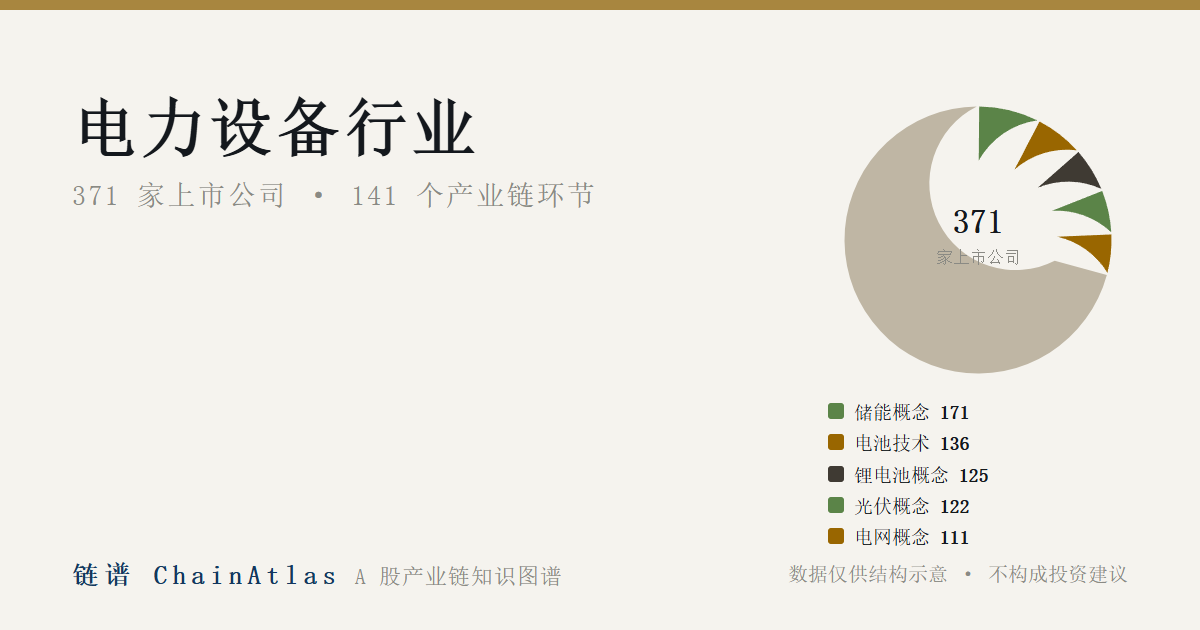
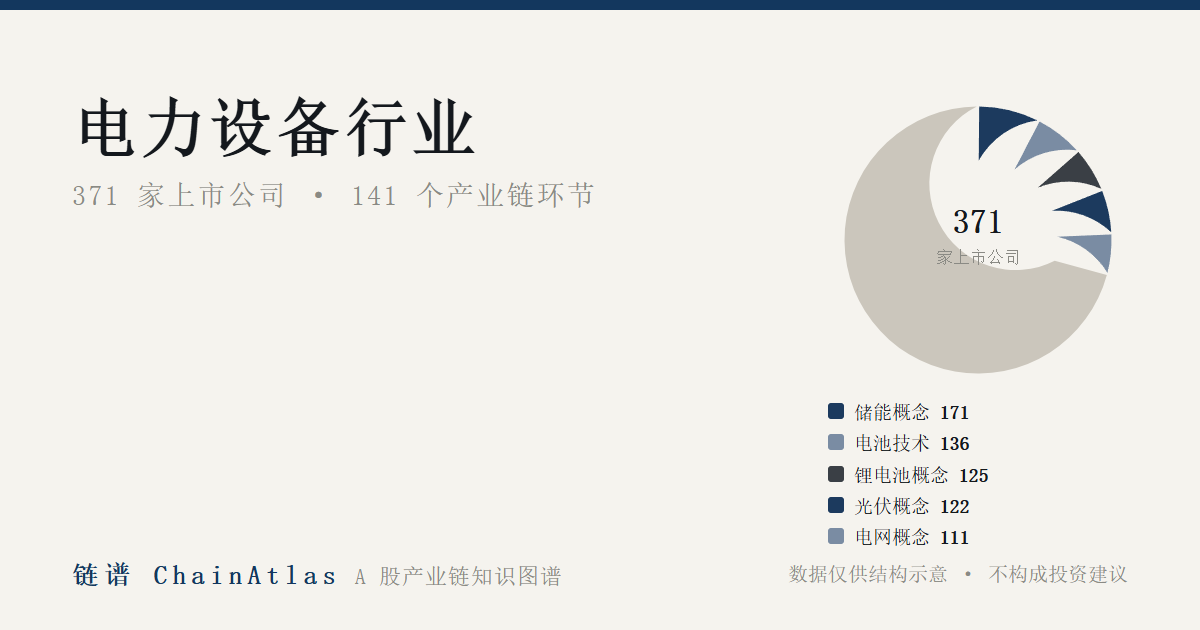
配色改版：纸墨藏青，彻底移除橄榄绿与金色通道
按 docs/handoff-color-redesign.md 执行：
- 默认主色松绿→藏青 #13375E（--gold* 通道映射为藏青/中性灰历史别名，
  全表 var() 引用自动生效）；松绿降级为设置可选项 [data-accent=forest]
- 圆饼数据色改藏青明度阶 #1C3A5E/#7A8CA3 + 炭灰锚 #3A3F45
- 语义色逐字节未动：涨红跌绿、上下游藏青蓝/古铜
- 静态页/OG 分享图/设计文档同步；cssVar 兜底值与 reserved 配色检查更新
- 验证：7 路由截图无橄榄绿/土黄残留；21 项端到端全过；--primary/--gold
  实算均为 #13375E

diff --git a/pages/i/纺织服饰.html b/pages/i/纺织服饰.html
@@ -30,7 +30,7 @@
 <table><tr><th>环节</th><th class='num'>公司数</th></tr><tr><td>黄金概念</td><td class='num'>13</td></tr><tr><td>医疗器械概念</td><td class='num'>6</td></tr><tr><td>电池技术</td><td class='num'>5</td></tr><tr><td>化妆品概念</td><td class='num'>5</td></tr><tr><td>机器人概念</td><td class='num'>4</td></tr><tr><td>光伏概念</td><td class='num'>4</td></tr><tr><td>锂电池概念</td><td class='num'>4</td></tr><tr><td>军工</td><td class='num'>4</td></tr><tr><td>人形机器人</td><td class='num'>4</td></tr><tr><td>商业航天</td><td class='num'>3</td></tr><tr><td>医美概念</td><td class='num'>3</td></tr><tr><td>国产软件</td><td class='num'>2</td></tr><tr><td>绿色电力</td><td class='num'>2</td></tr><tr><td>军民融合</td><td class='num'>2</td></tr><tr><td>农业种植</td><td class='num'>2</td></tr><tr><td class='note'>…… 还有 24 个环节</td><td></td></tr></table>
 <h2>龙头公司<span class="sub">按市值排序 · 点击进公司页</span></h2>
 <table><tr><th>公司</th><th class='num'>最新价</th><th class='num'>涨跌幅</th><th class='num'>总市值</th></tr>
-<tr><td><a href='../c/600612.html'>老凤祥</a><span class='tk' style='color:var(--faint);font-size:13px'> 600612</span></td><td class='num'>31.74</td><td class='num rise'>+0.44%</td><td class='num'>166 亿</td></tr><tr><td><a href='../c/600916.html'>中国黄金</a><span class='tk' style='color:var(--faint);font-size:13px'> 600916</span></td><td class='num'>7.46</td><td class='num fall'>-0.13%</td><td class='num'>125 亿</td></tr><tr><td><a href='../c/002867.html'>周大生</a><span class='tk' style='color:var(--faint);font-size:13px'> 002867</span></td><td class='num'>10.33</td><td class='num flat'>0.00%</td><td class='num'>112 亿</td></tr><tr><td><a href='../c/605599.html'>菜百股份</a><span class='tk' style='color:var(--faint);font-size:13px'> 605599</span></td><td class='num'>14.11</td><td class='num fall'>-0.07%</td><td class='num'>110 亿</td></tr><tr><td><a href='../c/300005.html'>探路者</a><span class='tk' style='color:var(--faint);font-size:13px'> 300005</span></td><td class='num'>11.23</td><td class='num fall'>-1.32%</td><td class='num'>99 亿</td></tr><tr><td><a href='../c/002083.html'>孚日股份</a><span class='tk' style='color:var(--faint);font-size:13px'> 002083</span></td><td class='num'>9.86</td><td class='num rise'>+0.92%</td><td class='num'>93 亿</td></tr><tr><td><a href='../c/603608.html'>天创时尚</a><span class='tk' style='color:var(--faint);font-size:13px'> 603608</span></td><td class='num'>21.96</td><td class='num fall'>-0.77%</td><td class='num'>93 亿</td></tr><tr><td><a href='../c/301177.html'>迪阿股份</a><span class='tk' style='color:var(--faint);font-size:13px'> 301177</span></td><td class='num'>23.30</td><td class='num fall'>-0.21%</td><td class='num'>93 亿</td></tr><tr><td><a href='../c/601718.html'>ST际华</a><span class='tk' style='color:var(--faint);font-size:13px'> 601718</span></td><td class='num'>1.98</td><td class='num fall'>-0.50%</td><td class='num'>86 亿</td></tr><tr><td><a href='../c/000026.html'>飞亚达</a><span class='tk' style='color:var(--faint);font-size:13px'> 000026</span></td><td class='num'>20.21</td><td class='num rise'>+2.85%</td><td class='num'>82 亿</td></tr><tr><td><a href='../c/603196.html'>璞源材料</a><span class='tk' style='color:var(--faint);font-size:13px'> 603196</span></td><td class='num'>19.26</td><td class='num rise'>+0.63%</td><td class='num'>81 亿</td></tr><tr><td><a href='../c/002345.html'>潮宏基</a><span class='tk' style='color:var(--faint);font-size:13px'> 002345</span></td><td class='num'>8.98</td><td class='num flat'>0.00%</td><td class='num'>80 亿</td></tr></table>
+<tr><td><a href='../c/600612.html'>老凤祥</a><span class='tk' style='color:var(--faint);font-size:13px'> 600612</span></td><td class='num'>31.74</td><td class='num rise'>+0.44%</td><td class='num'>166 亿</td></tr><tr><td><a href='../c/600916.html'>中国黄金</a><span class='tk' style='color:var(--faint);font-size:13px'> 600916</span></td><td class='num'>7.46</td><td class='num fall'>-0.13%</td><td class='num'>125 亿</td></tr><tr><td><a href='../c/002867.html'>周大生</a><span class='tk' style='color:var(--faint);font-size:13px'> 002867</span></td><td class='num'>10.33</td><td class='num flat'>0.00%</td><td class='num'>112 亿</td></tr><tr><td><a href='../c/605599.html'>菜百股份</a><span class='tk' style='color:var(--faint);font-size:13px'> 605599</span></td><td class='num'>14.11</td><td class='num fall'>-0.07%</td><td class='num'>110 亿</td></tr><tr><td><a href='../c/300005.html'>探路者</a><span class='tk' style='color:var(--faint);font-size:13px'> 300005</span></td><td class='num'>11.23</td><td class='num fall'>-1.32%</td><td class='num'>99 亿</td></tr><tr><td><a href='../c/603608.html'>天创时尚</a><span class='tk' style='color:var(--faint);font-size:13px'> 603608</span></td><td class='num'>21.96</td><td class='num fall'>-0.77%</td><td class='num'>93 亿</td></tr><tr><td><a href='../c/002083.html'>孚日股份</a><span class='tk' style='color:var(--faint);font-size:13px'> 002083</span></td><td class='num'>9.86</td><td class='num rise'>+0.92%</td><td class='num'>93 亿</td></tr><tr><td><a href='../c/301177.html'>迪阿股份</a><span class='tk' style='color:var(--faint);font-size:13px'> 301177</span></td><td class='num'>23.30</td><td class='num fall'>-0.21%</td><td class='num'>93 亿</td></tr><tr><td><a href='../c/601718.html'>ST际华</a><span class='tk' style='color:var(--faint);font-size:13px'> 601718</span></td><td class='num'>1.98</td><td class='num fall'>-0.50%</td><td class='num'>86 亿</td></tr><tr><td><a href='../c/000026.html'>飞亚达</a><span class='tk' style='color:var(--faint);font-size:13px'> 000026</span></td><td class='num'>20.21</td><td class='num rise'>+2.85%</td><td class='num'>82 亿</td></tr><tr><td><a href='../c/603196.html'>璞源材料</a><span class='tk' style='color:var(--faint);font-size:13px'> 603196</span></td><td class='num'>19.26</td><td class='num rise'>+0.63%</td><td class='num'>81 亿</td></tr><tr><td><a href='../c/002345.html'>潮宏基</a><span class='tk' style='color:var(--faint);font-size:13px'> 002345</span></td><td class='num'>8.98</td><td class='num flat'>0.00%</td><td class='num'>80 亿</td></tr></table>
 <div class="warn">行业与环节归属为真实公开归类；公司页的上下游连线为模型推断的模拟数据，未经核实。不构成投资建议。</div>
 <span class="open-app"><a href="https://zhangyh066.github.io/china-chain/#/i/%E7%BA%BA%E7%BB%87%E6%9C%8D%E9%A5%B0">在交互图谱中打开 →</a></span>
 

diff --git a/app.js b/app.js
@@ -91,7 +91,7 @@ const SETTINGS_DEFAULTS = {
   layout: "group",      // group | flat
   width: "narrow",      // narrow | wide
   animations: true,
-  accent: "forest",     // forest（默认，配米白纸底）| navy | graphite
+  accent: "navy",       // navy（默认）| forest | graphite
 };
 let settings = { ...SETTINGS_DEFAULTS };
 
@@ -770,7 +770,7 @@ function drawMarketRing(cv, hover = -1, dragTo = -1) {
   const INK2 = cssVar("--text", "#14181D");
   const RISEC = cssVar("--rise", "#AE2A1E");
   const FALLC = cssVar("--fall", "#0E6B4A");
-  const GOLD = cssVar("--gold", "#A8863F");
+  const GOLD = cssVar("--gold", "#13375E");
   const MUTED = cssVar("--border-strong", "#C9C3B5");
 
   // 环
@@ -1961,20 +1961,12 @@ function industryParts(ind, g) {
   return { ind, total: members.length, ranked, byTicker };
 }
 
-/* 环节切片的色阶：藏青由深到浅。
-   不用彩虹色 —— 涨跌已经占了红绿、上下游占了藏青/古铜，再上彩虹就会"一个颜色两件事"。
-   这里只用一条明度阶 + 灰色兜底，色义不与其他层冲突（见 styles.css 开头的取色逻辑）。 */
-// 数据色照 FT（金融时报）的路子：**少色相、多档位**。
-// Datawrapper 拆过各家的配色规范，给这类做法起了个名字叫 "fewer hues, more shades" ——
-// 数据色的"安静版"（2026-09-28 审美走查后调整）：大面积扇形会把颜色放大，
-// FT 原版绿 #09823A（色度 56）摊在米白底的大扇形上太响，压暗降饱和到 #5B8448
-// （色度 38，绿相不变）；金与炭不动。所有距离都是算出来的：
-//   相邻 ΔE    绿→金 48.0   金→炭 56.0   炭→绿 43.8      （≥20 就算"一眼能分"）
-//   离「跌」绿 #0E6B4A  21.4 / 64.8 / 38.4               （全部 ≥20，不会看着像"跌"）
-//   离纸底的对比度      3.9:1 / 4.5:1 / 10.2:1
-// 不含蓝、不含红：红绿两个色位留给涨跌，蓝在米白纸底上本来就发脏。
-const PART_CYCLE = ["#5B8448", "#996600", "#3F3A33"];
-const PART_OTHER = "#BFB6A4";
+/* 环节切片：藏青明度阶 + 炭灰锚点，"fewer hues, more shades"；
+   红绿留给涨跌，故此处不含红绿。
+   三个色分别是深藏青、灰蓝、炭灰——同族明度阶 + 一个中性锚，
+   相邻扇区一眼可分，且都远离涨红/跌绿。 */
+const PART_CYCLE = ["#1C3A5E", "#7A8CA3", "#3A3F45"];
+const PART_OTHER = "#CBC6BC";
 const PART_TONES = PART_CYCLE;
 
 /* ---- 全景图谱：24 个小圆饼 ------------------------------------------------
@@ -2498,7 +2490,7 @@ function drawIndustryRing(cv, ind, g, sel = null, hoverSector = -1) {
   const FAINT = cssVar("--text-faint", "#8A8A84");
   const RISE = cssVar("--rise", "#AE2A1E");
   const FALL = cssVar("--fall", "#0E6B4A");
-  const GOLD = cssVar("--gold", "#A8863F");
+  const GOLD = cssVar("--gold", "#13375E");
   const LINE = cssVar("--border-strong", "#C9C3B5");
   const q = indexData?.quotes || {};
 

diff --git a/styles.css b/styles.css
@@ -27,17 +27,17 @@
   --shadow-lift: 0 2px 8px rgba(20, 24, 29, 0.07);
 
   /* ---- 强调色（默认藏青，可被 [data-accent] 覆盖） ---- */
-  /* 默认主色改成松绿：米白纸底配蓝会发脏，配墨绿才是"纸与墨"的味道。
-     藏青降为可选项（[data-accent="navy"]）。 */
-  --primary: #1E4A3C;
-  --primary-dark: #143528;
-  --primary-soft: #E0EAE5;
+  /* 「纸墨藏青」：暖纸 + 墨 + 唯一的藏青强调色。
+     金色通道已废弃，--gold* 是藏青/中性灰的历史别名，仅为兼容旧引用保留。 */
+  --primary: #13375E;
+  --primary-dark: #0B2440;
+  --primary-soft: #E2E9F1;
 
-  /* ---- 金：固定的点睛色，不随主题切换，也不承担数据语义 ---- */
-  --gold: #A8863F;
-  --gold-dark: #836729;
-  --gold-soft: #F2EBD9;
-  --gold-line: #E0D3B4;
+  /* ---- 金 → 藏青/中性灰（历史别名，见上注释；新代码请用 --primary* 或中性色） ---- */
+  --gold: #13375E;
+  --gold-dark: #0B2440;
+  --gold-soft: #E8ECF2;
+  --gold-line: #D9D5CB;
 
   /* ---- 供应链方向（固定，与强调色无关） ---- */
   --up1: #1D4E7C;      /* 上游一级：藏青蓝 */
@@ -72,12 +72,17 @@
   --bg-soft: var(--surface-soft);
 }
 
-/* 强调色切换（设置 → 主色）。默认是松绿（见 :root），下面两套按需覆盖。
+/* 强调色切换（设置 → 主色）。默认是藏青（见 :root），下面两套按需覆盖。
    三套都刻意避开红/绿——那两个色位已经归涨跌所有，不能抢。 */
 :root[data-accent="navy"] {
   --primary: #13375E;
   --primary-dark: #0B2440;
   --primary-soft: #E2E9F1;
+}
+:root[data-accent="forest"] {
+  --primary: #1E4A3C;
+  --primary-dark: #143528;
+  --primary-soft: #E0EAE5;
 }
 :root[data-accent="graphite"] {
   --primary: #2A2E35;
@@ -486,7 +491,7 @@ button { font-family: inherit; font-size: inherit; }
 .intro-seg-title .cf-meta { margin-left: 10px; }
 .intro-segs th, .intro-segs td {
   text-align: left; padding: 5px 14px 5px 0;
-  border-bottom: 1px solid var(--gold-line, #E0D3B4);
+  border-bottom: 1px solid var(--gold-line, #D9D5CB);
 }
 .intro-segs th { font-size: 12px; color: var(--text-faint); font-weight: 400; }
 .intro-segs td.num, .intro-segs th.num { text-align: right; padding-right: 0; }

diff --git a/pages/style.css b/pages/style.css
@@ -1,6 +1,6 @@
 
-  :root { --paper:#F5F3EE; --ink:#14181D; --faint:#8A8A84; --gold:#A8863F;
-          --gold-line:#E0D3B4; --navy:#13375E; --rise:#AE2A1E; --fall:#0E6B4A; }
+  :root { --paper:#F5F3EE; --ink:#14181D; --faint:#8A8A84; --gold:#13375E;
+          --gold-line:#D9D3C4; --navy:#13375E; --rise:#AE2A1E; --fall:#0E6B4A; }
   * { box-sizing: border-box; }
   body { margin:0; background:var(--paper); color:var(--ink);
          font:16px/1.75 "Songti SC","Noto Serif CJK SC","SimSun",serif; }

diff --git a/pipeline/prerender.py b/pipeline/prerender.py
@@ -71,8 +71,8 @@ def fmt_price(v):
 
 # ---------------------------------------------------------------- CSS（文字版页面共用）
 CSS = """
-  :root { --paper:#F5F3EE; --ink:#14181D; --faint:#8A8A84; --gold:#A8863F;
-          --gold-line:#E0D3B4; --navy:#13375E; --rise:#AE2A1E; --fall:#0E6B4A; }
+  :root { --paper:#F5F3EE; --ink:#14181D; --faint:#8A8A84; --gold:#13375E;
+          --gold-line:#D9D3C4; --navy:#13375E; --rise:#AE2A1E; --fall:#0E6B4A; }
   * { box-sizing: border-box; }
   body { margin:0; background:var(--paper); color:var(--ink);
          font:16px/1.75 "Songti SC","Noto Serif CJK SC","SimSun",serif; }

diff --git a/pipeline/make_og.py b/pipeline/make_og.py
@@ -20,9 +20,9 @@ ROOT = os.path.dirname(HERE)
 DATA = os.path.join(ROOT, "data")
 OUT = os.path.join(ROOT, "assets", "og")
 
-PART_CYCLE = ["#5B8448", "#996600", "#3F3A33"]
-PART_OTHER = "#BFB6A4"
-PAPER, INK, FAINT, GOLD, NAVY = "#F5F3EE", "#14181D", "#8A8A84", "#A8863F", "#13375E"
+PART_CYCLE = ["#1C3A5E", "#7A8CA3", "#3A3F45"]
+PART_OTHER = "#CBC6BC"
+PAPER, INK, FAINT, GOLD, NAVY = "#F5F3EE", "#14181D", "#8A8A84", "#13375E", "#13375E"
 
 W, H = 1200, 630
 

diff --git a/pipeline/palette_reserved_check.py b/pipeline/palette_reserved_check.py
@@ -18,7 +18,7 @@ from palette_check import (check, delta_e, hex2rgb, rgb2lab,
 RESERVED = [
     ("上游藏青", "#1D4E7C"), ("上游二级", "#3E6E9C"),
     ("下游古铜", "#9C5A2C"), ("下游二级", "#7C4520"),
-    ("主色藏青", "#13375E"), ("金", "#A8863F"),
+    ("主色藏青", "#13375E"),
 ]
 CUR = ["#733f42", "#25545d", "#a09a54", "#464a79", "#4c8261",
        "#a46b94", "#9d643a", "#0083b1", "#b59089", "#544f2b", "#8a91d5"]

diff --git a/pipeline/bronze_check.py b/pipeline/bronze_check.py
@@ -64,7 +64,7 @@ DATA = {
     "下游古铜(加深) #8A4A1E": "#8A4A1E",
     "涨红 #AE2A1E": "#AE2A1E",
     "跌绿 #0E6B4A": "#0E6B4A",
-    "金 #A8863F": "#A8863F",
+    "主色藏青 #13375E": "#13375E",
     "金(加深) #8A6A28": "#8A6A28",
 }
 

diff --git a/docs/handoff-color-redesign.md b/docs/handoff-color-redesign.md
@@ -1,0 +1,145 @@
+# 配色改版交接文件：从「橄榄绿 + 土金」到「纸墨藏青」
+
+> 写给执行改动的模型/开发者。本文档包含：诊断、设计决策、**逐行精确的替换清单**、验证步骤。
+> 按清单改即可，不需要再做设计决策。所有行号基于当前版本，改之前请先 Read 对应文件核对上下文。
+
+---
+
+## 1. 背景与诊断
+
+这是一个 A 股产业链图谱站点（单页应用 `index.html` + `app.js` + `styles.css`，另有静态 SEO 页 `pages/`）。
+用户反馈：「一会儿橄榄绿，一会儿屎黄色，不符合审美」。
+
+经逐页截图走查，问题颜色的确切来源是：
+
+| 用户看到的 | 代码里的值 | 位置 |
+|---|---|---|
+| 橄榄绿（按钮、选中态、链接、圆饼扇区） | `#1E4A3C` 松绿（默认主色）、`#5B8448` 数据绿 | `styles.css:32`、`app.js:1976` |
+| 屎黄色（圆饼扇区、顶部金线、警示框、星标、徽章） | `#996600` 数据金、`#A8863F` 金、`#F2EBD9` 金底 | `app.js:1976`、`styles.css:37-40` |
+| 深棕 | `#3F3A33` | `app.js:1976` |
+
+**保留不动**（这些是语义色，不是装饰色，动了会破坏信息表达）：
+
+- 涨红 `#AE2A1E` / 跌绿 `#0E6B4A`（A 股惯例，`--rise` / `--fall`）
+- 上游藏青蓝 `#1D4E7C/#3E6E9C`、下游古铜 `#9C5A2C/#7C4520`（价值链地图的方向语义，`--up1/--up2/--dn1/--dn2`）
+- 米白纸底 `#F5F3EE`、墨色 `#14181D`（这套"纸与墨"基底是好的，是站点气质的来源）
+
+## 2. 设计方向（已定，勿再发散）
+
+**「纸墨藏青」：暖纸 + 墨 + 唯一的藏青强调色，彻底删除金色通道和橄榄绿。**
+
+原则（来自本站 `styles.css` 开头已有的设计哲学，本次只是把它贯彻到底）：
+
+- 像一份印刷的研究报告，不像数据可视化库的默认盘；
+- "fewer hues, more shades"——少色相、多档位；
+- 一个颜色只表达一件事：红绿归涨跌、蓝/古铜归上下游、藏青归交互与强调；
+- 点缀不靠第二种彩色，靠留白、细线和字重。
+
+新强调色选择 **藏青 `#13375E`** 的理由：
+
+1. 代码里它已经是现成的备选主题（`styles.css:77-81` 的 `[data-accent="navy"]`），对比度、深浅色阶都配好了；
+2. `manifest.webmanifest:10` 和 `index.html:20` 的 `theme_color` 本来就是 `#13375E`——浏览器地址栏/图标底色早已是藏青，页面主色却一直不是，这次顺手统一；
+3. 藏青在米白纸底上是"机构感"，不是"脏蓝"（值够深、够冷）；
+4. 与语义色不冲突：离涨红/跌绿很远；与上游蓝 `#1D4E7C` 同族但明度差一档（藏青做实心节点、上游蓝只做浅色填充和文字，不混）。
+
+金色通道不新增替代彩色，**映射到藏青色系和中性灰**：金的"点睛"职能由藏青接管，金的"细线"职能由中性暖灰接管。
+
+## 3. 精确替换清单
+
+### 3.1 `styles.css` —— 改 8 个 token 的值（不改任何选择器）
+
+`:root` 块内（当前第 32-40 行），**只改值、不改变量名**，这样全表 20 多处 `var(--gold…)` 引用自动生效：
+
+```
+--primary:       #1E4A3C  →  #13375E
+--primary-dark:  #143528  →  #0B2440
+--primary-soft:  #E0EAE5  →  #E2E9F1
+--gold:          #A8863F  →  #13375E
+--gold-dark:     #836729  →  #0B2440
+--gold-soft:     #F2EBD9  →  #E8ECF2
+--gold-line:     #E0D3B4  →  #D9D5CB
+```
+
+同时更新 `styles.css:29-36` 附近的注释：把「默认主色改成松绿……藏青降为可选项」那段改为「默认主色为藏青；金色通道已废弃，--gold* 是藏青/中性灰的历史别名，仅为兼容旧引用保留」。
+
+`:root[data-accent="forest"]`（当前不存在，需要**新增**，因为旧默认松绿降级为可选项）：
+
+```css
+:root[data-accent="forest"] {
+  --primary: #1E4A3C;
+  --primary-dark: #143528;
+  --primary-soft: #E0EAE5;
+}
+```
+
+放在现有 `:root[data-accent="navy"]`（第 77-81 行）旁边即可。`[data-accent="navy"]` 那组值与新的 `:root` 默认相同，留着无害（也可删，但留着能让"藏青"选项在设置里逻辑简单）。
+
+### 3.2 `app.js` —— 4 处
+
+**① 默认主色（第 94 行）：**
+
+```
+accent: "forest",  →  accent: "navy",
+```
+
+注释同步改为 `// navy（默认）| forest | graphite`。注意 `applyAccent()`（第 108-112 行）的逻辑是"非 navy 才打 `data-accent` 属性"——改完默认值后逻辑自洽：默认藏青 → 无属性 → 命中 `:root` 新藏青；选松绿 → `data-accent="forest"` → 命中 3.1 新增的那组。
+
+**② 圆饼数据色（第 1976-1977 行）** —— 这是"橄榄绿 + 屎黄"圆饼的直接来源：
+
+```
+PART_CYCLE = ["#5B8448", "#996600", "#3F3A33"]  →  ["#1C3A5E", "#7A8CA3", "#3A3F45"]
+PART_OTHER = "#BFB6A4"                           →  "#CBC6BC"
+```
+
+三个新色分别是：深藏青、灰蓝、炭灰——同族明度阶 + 一个中性锚，相邻扇区一眼可分，且都远离涨红/跌绿。第 1964-1975 行那段关于 FT 绿的长注释已过时，简化为：`// 环节切片：藏青明度阶 + 炭灰锚点，"fewer hues, more shades"；红绿留给涨跌，故此处不含红绿。`
+
+**③ 设置面板色板顺序（第 2953-2957 行）：** 把 navy 排第一并作为默认项即可（数组顺序本来就是 navy 在前，无需改动；确认 `dot` 值 `#13375E` 不变）。
+
+**④ 不需要改**：`OWL_PAL`（第 199 行，中性暖灰，保留）、价值链地图上下游色（第 1386-1391 行，语义色，保留）、`--rise/--fall` 的所有引用（第 768-774、2497-2502 行等）。
+
+### 3.3 `pages/style.css` —— 静态 SEO 页同步（第 2-3 行）
+
+```
+--gold: #A8863F        →  #13375E
+--gold-line: #E0D3B4   →  #D9D3C4
+```
+
+（`--navy: #13375E`、`--paper: #F5F3EE`、`--rise/--fall` 不动。改完后该文件里"金色"实际是藏青，变量名照旧不改，避免动下面 50 行引用。）
+
+### 3.4 其他文件
+
+- `manifest.webmanifest`、`index.html` 的 theme-color 已是 `#13375E`，**不用改**。
+- `locales/zh.json`、`locales/en.json` 中 `settings.accent.*` 文案（藏青/松绿/石墨）**不用改**——松绿降级为可选项后名字仍成立。
+- `_bak_*.js`、`_bak*.css` 是历史备份，**不要改**。
+- `pipeline/palette_check.py` 里的行业 11 色与本次无关，**不要改**。
+
+## 4. 老用户的 localStorage 迁移（可选，建议做）
+
+老用户浏览器里可能存着 `accent: "forest"`。两种处理：
+
+- **简单方案（推荐）**：不管。老用户保留松绿主题，新用户默认藏青。设置里可随时切。
+- **彻底方案**：在 `app.js` 读取 settings 后加一行：`if (settings.accent === "forest" && !settings._accentMigrated) { settings.accent = "navy"; settings._accentMigrated = true; saveSettings(); }`。只有产品明确要求"所有人统一新配色"时才做。
+
+## 5. 构建与验证
+
+```bash
+python build_dist.py        # 重新生成 dist/（它会拷贝 styles.css、app.js、pages/）
+python serve.py 8123        # 本地预览（自带 no-store，不会有缓存假象）
+```
+
+浏览器逐一打开以下路由并截图核对（重点看：无橄榄绿、无土黄残留）：
+
+1. `#/` 首页：顶部金线→藏青线；免责声明框→浅蓝灰底；大圆饼→藏青/灰蓝/炭灰
+2. `#/worldmap` 全景图谱：24 个小圆饼的扇区色
+3. `#/i/电子` 行业页：选中态药丸、环节 chips
+4. `#/c/000063` 公司页：价值链地图（上游蓝/下游古铜应**保持不变**）、"加入自选"按钮
+5. `#/m/电子` 大环图：涨红跌绿的点**保持不变**
+6. `#/vision` 观点页：标题下的装饰线
+7. 打开设置面板（右上角齿轮）：主色默认选中"藏青"，三个选项都可切换且即时生效
+
+## 6. 验收标准
+
+- [ ] 全站搜不到渲染出来的 `#1E4A3C`、`#5B8448`、`#996600`、`#A8863F`、`#F2EBD9`（作为默认值；松绿仅作为设置里的可选项存在）
+- [ ] 涨红跌绿、上下游蓝/古铜的语义色值逐字节未变
+- [ ] `python build_dist.py` 跑通，`dist/styles.css` 与源文件一致
+- [ ] 上面 7 个路由截图无橄榄绿/土黄残留，文字对比度无回退（藏青 `#13375E` 在纸底上对比度约 10:1，只会更好）

diff --git a/docs/design.md b/docs/design.md
@@ -11,8 +11,8 @@
 | 层 | 颜色 | 说明 |
 |---|---|---|
 | 纸与墨 | 米白 `#F5F3EE` / 墨 `#14181D` | 固定 |
-| 主色（链接 / 按钮 / 选中态） | 藏青 `#13375E`（可切松绿 / 石墨） | 可切换 |
-| 点睛金 | `#A8863F`（细线 `#E0D3B4`） | 固定 |
+| 主色（链接 / 按钮 / 选中态 / 原"点睛金"通道） | 藏青 `#13375E`（可切松绿 / 石墨） | 默认藏青；金色通道已废弃 |
+| 数据扇区 | 藏青明度阶 `#1C3A5E` / `#7A8CA3` + 炭灰锚 `#3A3F45` | 固定 |
 | 价格涨跌 | 涨红 `#AE2A1E` / 跌绿 `#0E6B4A` | 固定（A 股惯例） |
 | 产业链方向 | 上游藏青 `#1D4E7C` / 下游古铜 `#9C5A2C` | 固定 |
 | 行业分类 | 11 色（见下） | 固定 |
